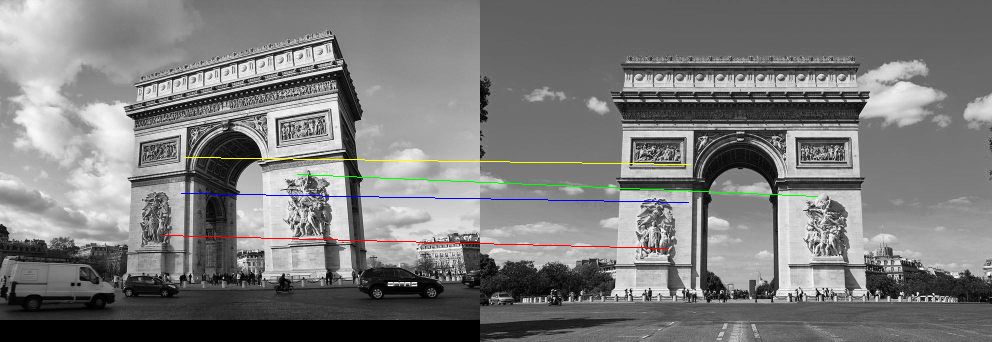
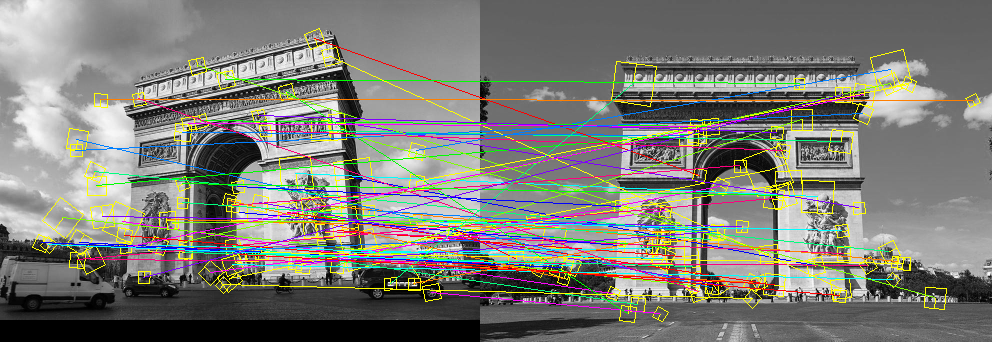
task1-2

diff --git a/examples/task1/class1_test_matching.cc b/examples/task1/class1_test_matching.cc
@@ -108,7 +108,7 @@ feature_set_matching (core::ByteImage::Ptr image1, core::ByteImage::Ptr image2)
     //feature_set_opts.surf_opts.verbose_output = true;
     //feature_set_opts.surf_opts.contrast_threshold = 500.0f;
 
-    // 计算第一幅图像的SIT和SURF特征点
+    // 计算第一幅图像的SIFT和SURF特征点
     sfm::FeatureSet feat1(feature_set_opts);
     feat1.compute_features(image1);
     // 计算第二幅图像的SIFT和SURF特征点
@@ -138,7 +138,7 @@ feature_set_matching (core::ByteImage::Ptr image1, core::ByteImage::Ptr image2)
         sift_descr2.data()->begin(), sift_descr2.size(),
         &sift_matching);
 
-    // 去除不一致的匹配对，匹配对feature1和feature2是一致的需要满足，feature1的最近邻居
+    // 去除不一致的匹配对，匹配对feature1和feature2是一致的需要满足，feature1的最近邻
     // 是feature2，feature2的最近邻是feature1
     sfm::Matching::remove_inconsistent_matches(&sift_matching);
     std::cout << "Consistent Sift Matches: "
@@ -223,7 +223,7 @@ feature_set_matching (core::ByteImage::Ptr image1, core::ByteImage::Ptr image2)
 
     core::ByteImage::Ptr match_image = visualize_matching(
         matching, image1, image2, feat1.positions, feat2.positions);
-    std::string output_filename = "./tmp/matching_featureset.png";
+    std::string output_filename = "./tmp/matching_featureset_lowe-ratio.png";
     std::cout << "Saving visualization to " << output_filename << std::endl;
     core::image::save_file(match_image, output_filename);
 }

diff --git a/features/matching.h b/features/matching.h
@@ -170,10 +170,10 @@ Matching::oneway_match (Options const& options,
 
 
 
-//        if (static_cast<float>(nn_result.dist_1st_best)
-//            / static_cast<float>(nn_result.dist_2nd_best)
-//            > square_lowe_thres)
-//            continue;
+        if (static_cast<float>(nn_result.dist_1st_best)
+            / static_cast<float>(nn_result.dist_2nd_best)
+            > square_lowe_thres)
+            continue;
         // 匹配成功，feature set1 中第i个特征值对应feature set2中的第index_1st_best个特征点
         result->at(i) = nn_result.index_1st_best;
     }
